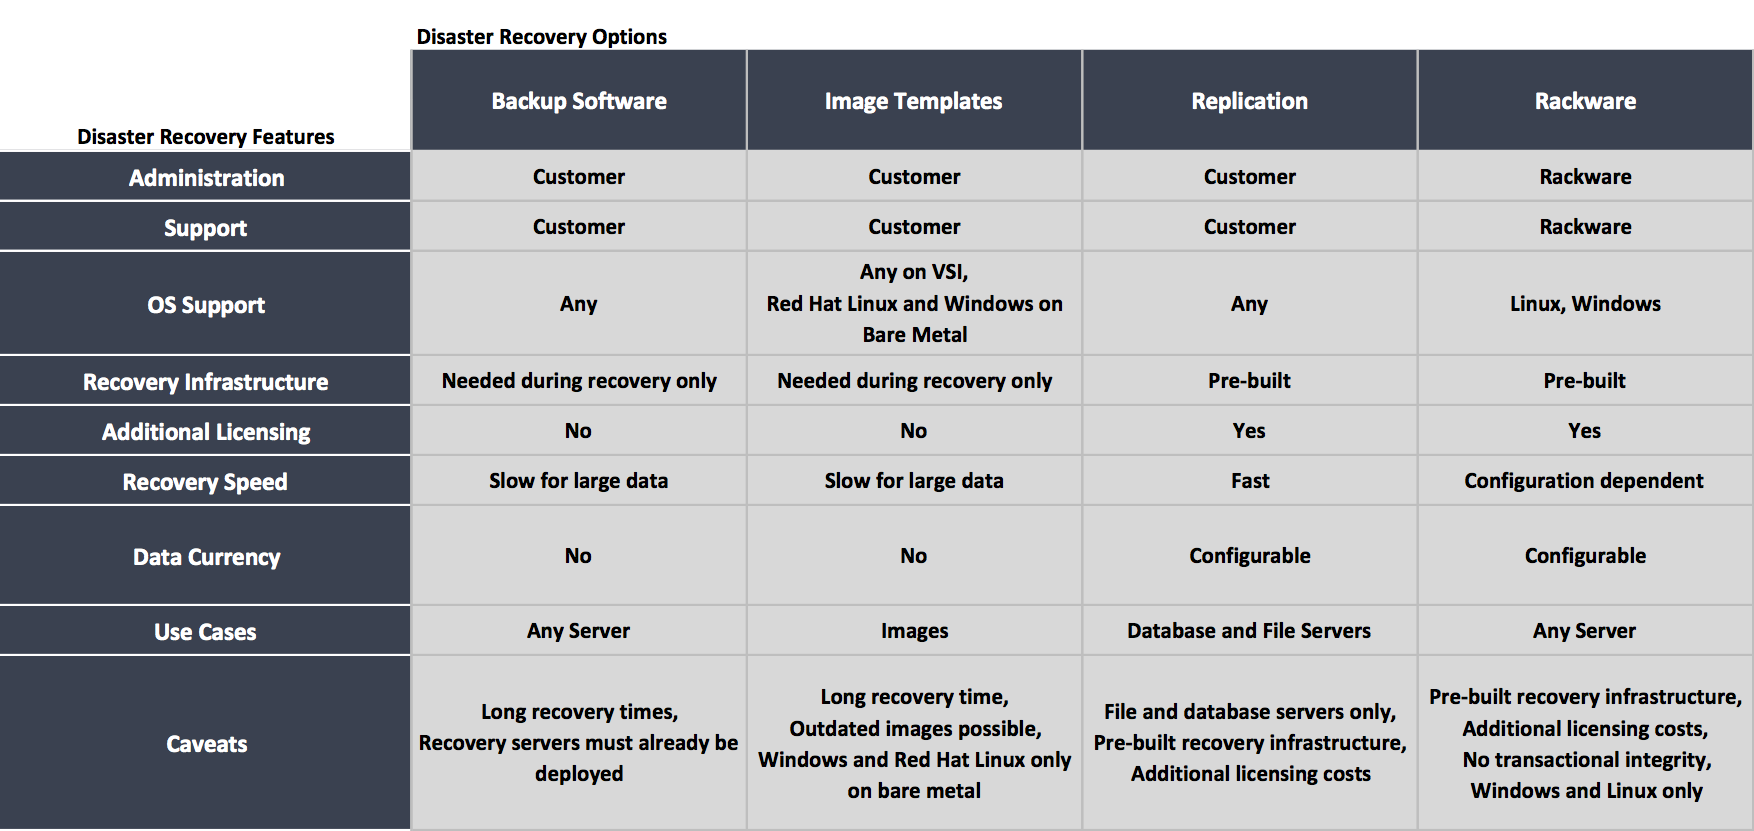
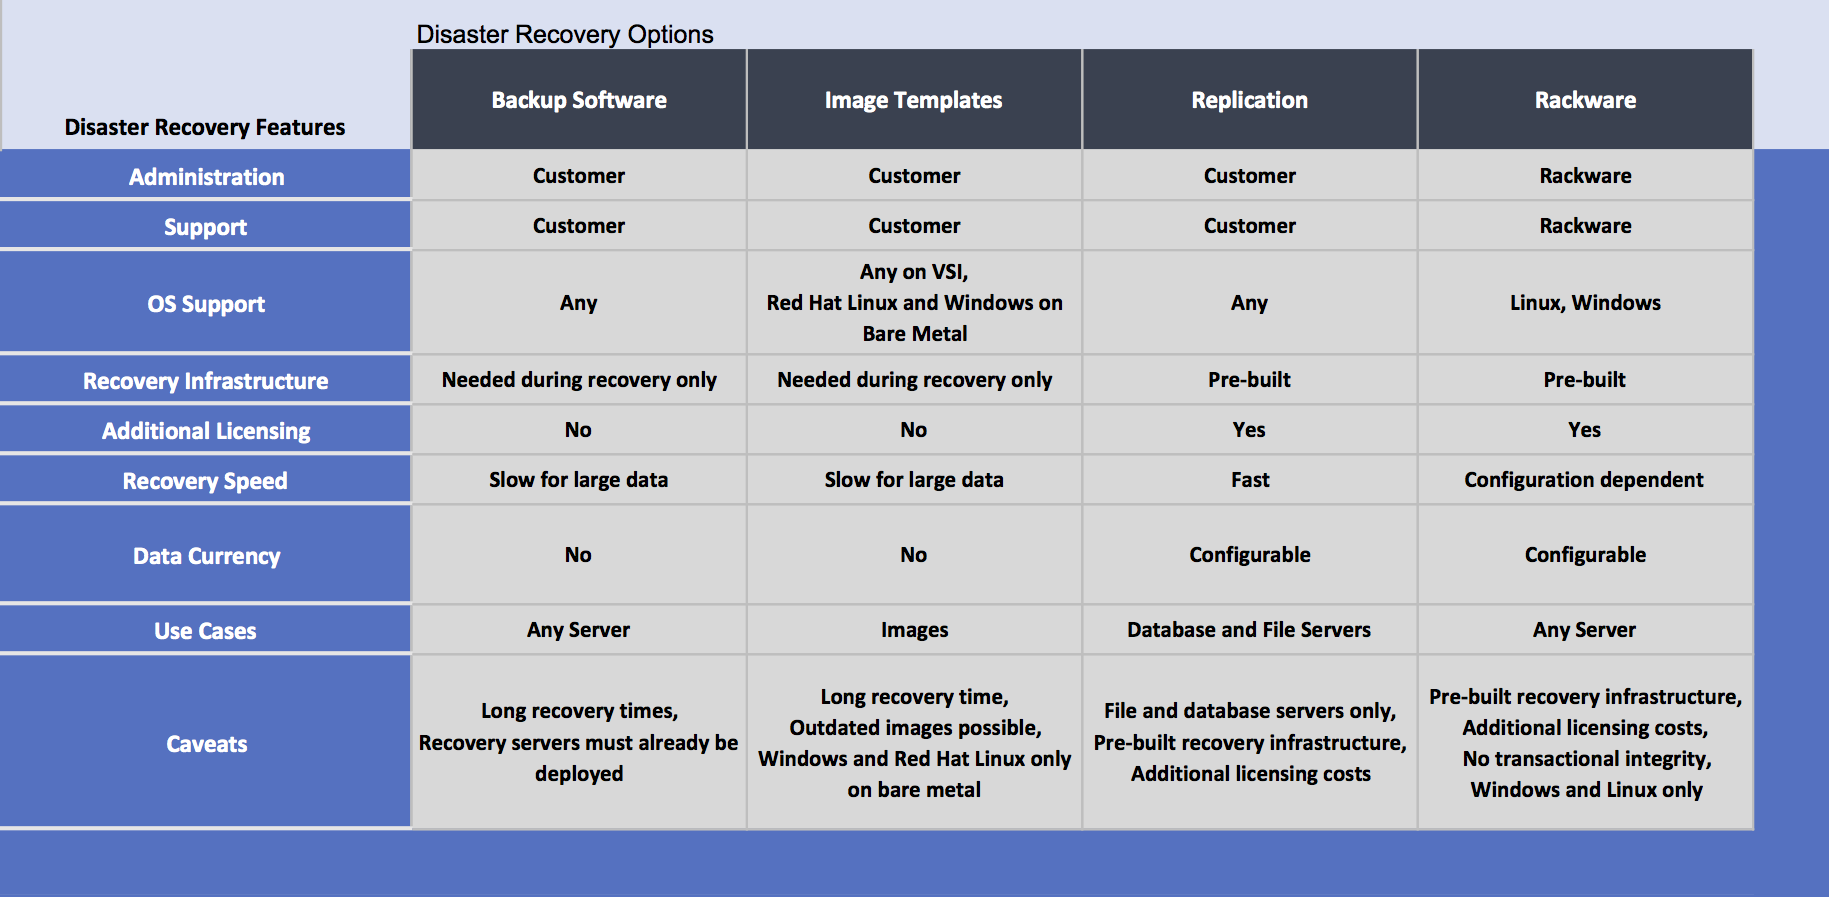
backup and dr express

diff --git a/README.md b/README.md
@@ -6,9 +6,9 @@ The Design Decision Tool includes considerations and caveats for the primary opt
 
 * [Compute Options](compute_options.md)
 * [Storage Options](storage_options.md)
+* [Backup Options](backup_options.md)
+* [Disaster Recovery Options](disaster_recovery_options.md)
 
-* ![Backup Options](#backup)
-* ![Disaster Recovery Options](#disaster_recovery)
 * ![Firewall Options](#firewall)
 * ![VPN Options](#vpn)
 * ![Load Balancer Options](#load_balancer)

diff --git a/disaster_recovery_options.md b/disaster_recovery_options.md
@@ -1,0 +1,11 @@
+# Design Decision Tool for IaaS on IBM Cloud
+
+## Disaster Recovery Options
+
+### Descriptive Format
+![Descriptive Format](/images/rainbow_tool_disaster_recovery.png)
+
+### Bullet Format
+![Bullet Format](/images/express_tool_disaster_recovery.png)
+
+Return to [Main Menu](README.md)

diff --git a/backup_options.md b/backup_options.md
@@ -1,0 +1,11 @@
+# Design Decision Tool for IaaS on IBM Cloud
+
+## Backup Options
+
+### Descriptive Format
+![Descriptive Format](/images/rainbow_tool_backup.png)
+
+### Bullet Format
+![Bullet Format](/images/express_tool_backup.png)
+
+Return to [Main Menu](README.md)
